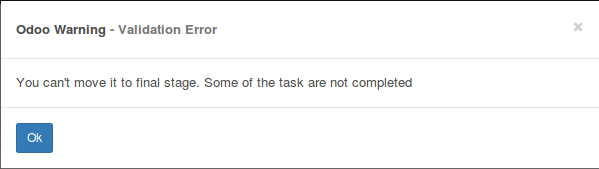
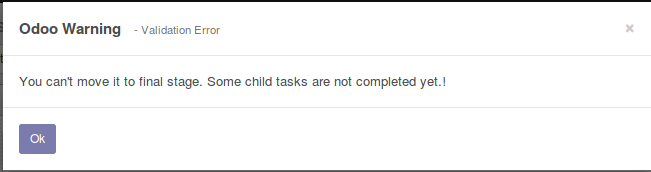
[ADD]Images

Changed region(s): [[0.0, 0.0, 1.0, 1.0], [0.9616, 0.1479, 0.9917, 0.1775]]

diff --git a/project_subtask/static/description/index.html b/project_subtask/static/description/index.html
@@ -19,7 +19,7 @@
 </section>
 
 <section class="oe_container oe_dark">
-    <div class="oe_spaced">
+    <div class="oe_row oe_spaced">
         <div class="oe_picture">
             <h3 class="oe_slogan">Overview</h3>
             <p class="oe_mt32">
@@ -31,32 +31,37 @@
 </section>
 
 <section class="oe_container">
-    <div class="oe_spaced">
+    <div class="oe_row oe_spaced">
         <h3 class="oe_slogan">Sub Task Configuration</h3>
         <div class="" style="text-align: center">
             <p>
                 <h4>Project -> Configuration -> Sub Task Stages</h4>
             <p>
         </div>
-        <div class="" style="text-align: center">
-            <div class="oe_demo oe_picture oe_screenshot">
-                <img style="border:10px solid white;" src="task2.png">
+        <div class="oe_span12">
+            <div class="oe_row_img oe_centered">
+                <img class="oe_picture oe_screenshot" src="task2.png">
             </div>
-            <span>&#9755; Please tick marked fields to identify your final stage and cancel stage.</span>
+            <span class="center-block" style="text-align: center;">&#9755; Please tick marked fields to identify your final stage and cancel stage.</span>
         </div>
         <br>
-
-         <div class="" style="text-align: center">
-            <div class="oe_demo oe_picture oe_screenshot">
-                <img style="border:10px solid white;" src="task3.png">
-            </div>
-             <span>&#9755; If you want to create sub tasks for your project please select the option Sub Tasks</span>
-        </div>
     </div>
 </section>
 
 <section class="oe_container oe_dark">
-    <div class="oe_spaced">
+    <div class="oe_row oe_spaced">
+        <div class="oe_span12">
+            <div class="oe_row_img oe_centered">
+                <img class="oe_picture oe_screenshot" src="task3.png">
+            </div>
+            <span class="center-block" style="text-align: center;">&#9755; If you want to create sub tasks for your project please select the option Sub Tasks.</span>
+        </div>
+        <br>
+    </div>
+</section>
+
+<section class="oe_container">
+    <div class="oe_row oe_spaced">
         <h3 class="oe_slogan">Sub Task Creation</h3>
         <div class="" style="text-align: center">
             <p>
@@ -67,27 +72,27 @@
             <div class="oe_demo oe_picture oe_screenshot">
                 <img style="border:10px solid white;" src="sub_task.png">
             </div>
-            <span>&#9755;Create sub tasks directly from Menu 'Sub Task'.</span>
-        </div>
-        <br>
-         <div class="" style="text-align: center">
-            <div class="oe_demo oe_picture oe_screenshot">
-                <img style="border:10px solid white;" src="task.png">
-            </div>
-             <span>&#9755; Create sub tasks from task itself</span>
+            <span class="center-block" style="text-align: center;">&#9755; Create sub tasks directly from Menu 'Sub Task'.</span>
         </div>
     </div>
 </section>
 
-<section class="oe_container">
-    <div class="oe_spaced">
-        <h3 class="oe_slogan">Sub-Task Count in Task Kanban View</h3>
-        <div class="">
-            <div class="oe_demo oe_picture oe_screenshot">
-                <img style="border:10px solid white;" src="count.png">
-            </div>
-            <span>&#9755; You can see the count of sub task on each task's kanaban view</span>
+<section class="oe_container oe_dark">
+    <div class="oe_row oe_spaced">
+        <div class="oe_demo oe_picture oe_screenshot">
+            <img style="border:10px solid white;" src="task.png">
         </div>
+        <span class="center-block" style="text-align: center;">&#9755; Create sub tasks from task itself</span>
+    </div>
+</section>
+
+<section class="oe_container">
+    <div class="oe_row oe_spaced">
+        <h3 class="oe_slogan">Sub-Task Count in Task Kanban View</h3>
+        <div class="oe_demo oe_picture oe_screenshot">
+            <img style="border:10px solid white;" src="count.png">
+        </div>
+        <span class="center-block" style="text-align: center;">&#9755; You can see the count of sub task on each task's kanaban view</span>
     </div>
 </section>
 
@@ -103,36 +108,35 @@
 </section>
 
 <section class="oe_container">
-    <div class="oe_spaced">
-       <h3 class="oe_slogan">Stage Validation for Sub-Task</h3>
-        <div class="" style="text-align: center">
-            <div class="oe_demo oe_picture oe_screenshot">
-                <img style="border:10px solid white;" src="task5.png">
-            </div>
-            <span>&#9755; You cant move your task into final stage until all sub tasks are reach in final stage</span>
+    <div class="oe_row oe_spaced">
+        <h3 class="oe_slogan">Stage Validation for Sub-Task</h3>
+        <div class="oe_demo oe_picture oe_screenshot">
+            <img style="border:10px solid white;" src="task5.png">
         </div>
-         <div class="" style="text-align: center">
-            <div class="oe_demo oe_picture oe_screenshot">
-                <img style="border:10px solid white;" src="task6.png">
-            </div>
-             <span>&#9755; When you move your task into cancel stage then all sub tasks also will go to cancel stage</span>
+        <span class="center-block" style="text-align: center;">&#9755; You cant move your task into final stage until all sub tasks are reach in final stage</span>
+    </div>
+</section>
+
+<section class="oe_container oe_dark">
+    <div class="oe_row oe_spaced">
+        <h3 class="oe_slogan">Automatically Cancel/kill the sub-task by moving parent task to 'cancel'</h3>
+        <div class="oe_demo oe_picture oe_screenshot">
+            <img style="border:10px solid white;" src="task6.png">
+        </div>
+        <span class="center-block" style="text-align: center;">&#9755; When you move your task into cancel stage then all sub tasks also will go to cancel stage</span>
+    </div>
+</section>
+
+<section class="oe_container">
+    <div class="oe_row oe_spaced">
+        <h3 class="oe_slogan">Deadline Validation for Sub-Task</h3>
+        <div class="oe_demo oe_picture oe_screenshot">
+            <img style="border:10px solid white;" src="11.png">
         </div>
     </div>
 </section>
 
 <section class="oe_container oe_dark">
-    <div class=" oe_spaced">
-       <h3 class="oe_slogan">Deadline Validation for Sub-Task</h3>
-        <div class="">
-            <div class="oe_demo oe_picture oe_screenshot">
-                <img style="border:10px solid white;" src="11.png">
-            </div>
-        </div>
-    </div>
-</section>
-
-
-<section class="oe_container">
 		<h2 class="oe_slogan" style="margin-top:20px;" >Need Any Help?</h2>
 		<div class="oe_slogan" style="margin-top:10px !important;">
             <div>
@@ -157,7 +161,6 @@
             </div>
 		</div>
 </section>
-
 
 
 

diff --git a/project_subtask/models/project.py b/project_subtask/models/project.py
@@ -127,7 +127,7 @@ class TaskMaster(models.Model):
         if self.stage_id.done_state:
             for each in self.sub_task_lines:
                 if not each.stage_id.done_state:
-                    raise ValidationError(_("You can't move it to final stage. Some of the task are not completed"))
+                    raise ValidationError(_("You can't move it to final stage. Some child tasks are not completed yet.!"))
 
     @api.multi
     def _check_child_task(self):

diff --git a/project_subtask/__manifest__.py b/project_subtask/__manifest__.py
@@ -37,7 +37,7 @@
         'views/sub_task_report.xml',
         'views/sub_task_type_view.xml'
     ],
-    'images': ['static/description/pr_banner.jpg'],
+    'images': ['static/description/banner.jpg'],
     'license': 'LGPL-3',
     'demo': [],
     'installable': True,
